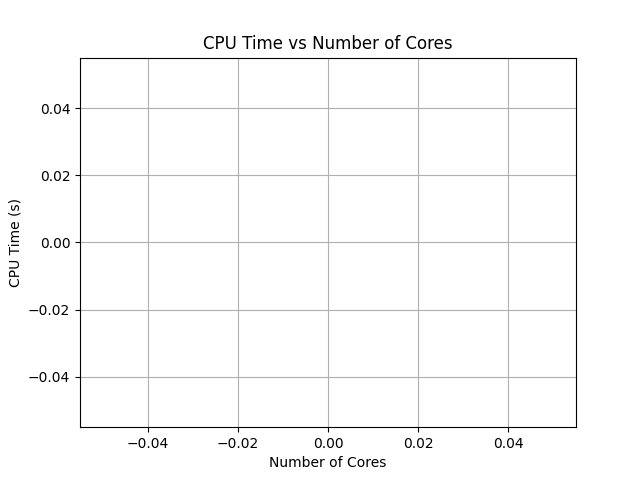
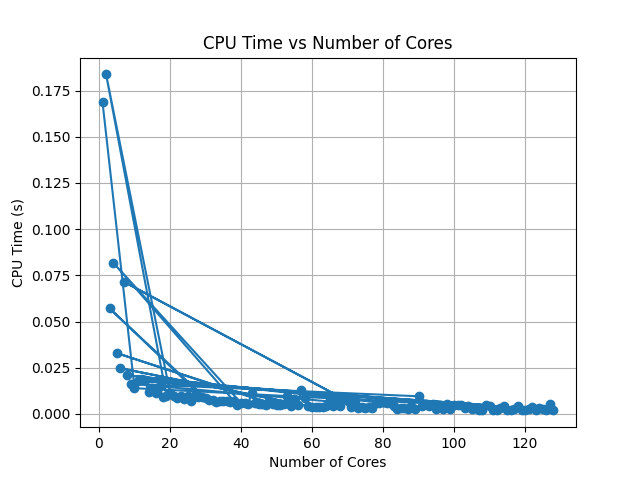
Fix the plot

diff --git a/Zakaria CHOUKRI/Assignment2/Exercise 1/plot.py b/Zakaria CHOUKRI/Assignment2/Exercise 1/plot.py
@@ -5,15 +5,21 @@ import matplotlib.pyplot as plt
 def extract_cpu_time(file_path):
     with open(file_path, 'r') as file:
         content = file.read()
-        match = re.search(r'cpu time is: (\d+\.\d+)', content)
+        match = re.search(r'cpu time is:  (\d+\.\d+)', content)
         if match:
             return float(match.group(1))
         else:
+            print(f"Failed to extract CPU time from file: {file_path}")
+            print(f"File content: {content}")
             return None
 
 def plot_cpu_time(output_files, output_image='cpu_time_plot.png'):
     core_counts = [int(re.search(r'output_(\d+).txt', file).group(1)) for file in output_files]
     cpu_times = [extract_cpu_time(file) for file in output_files]
+
+    # Print debug information
+    print("Core Counts:", core_counts)
+    print("CPU Times:", cpu_times)
 
     plt.plot(core_counts, cpu_times, marker='o')
     plt.title('CPU Time vs Number of Cores')
